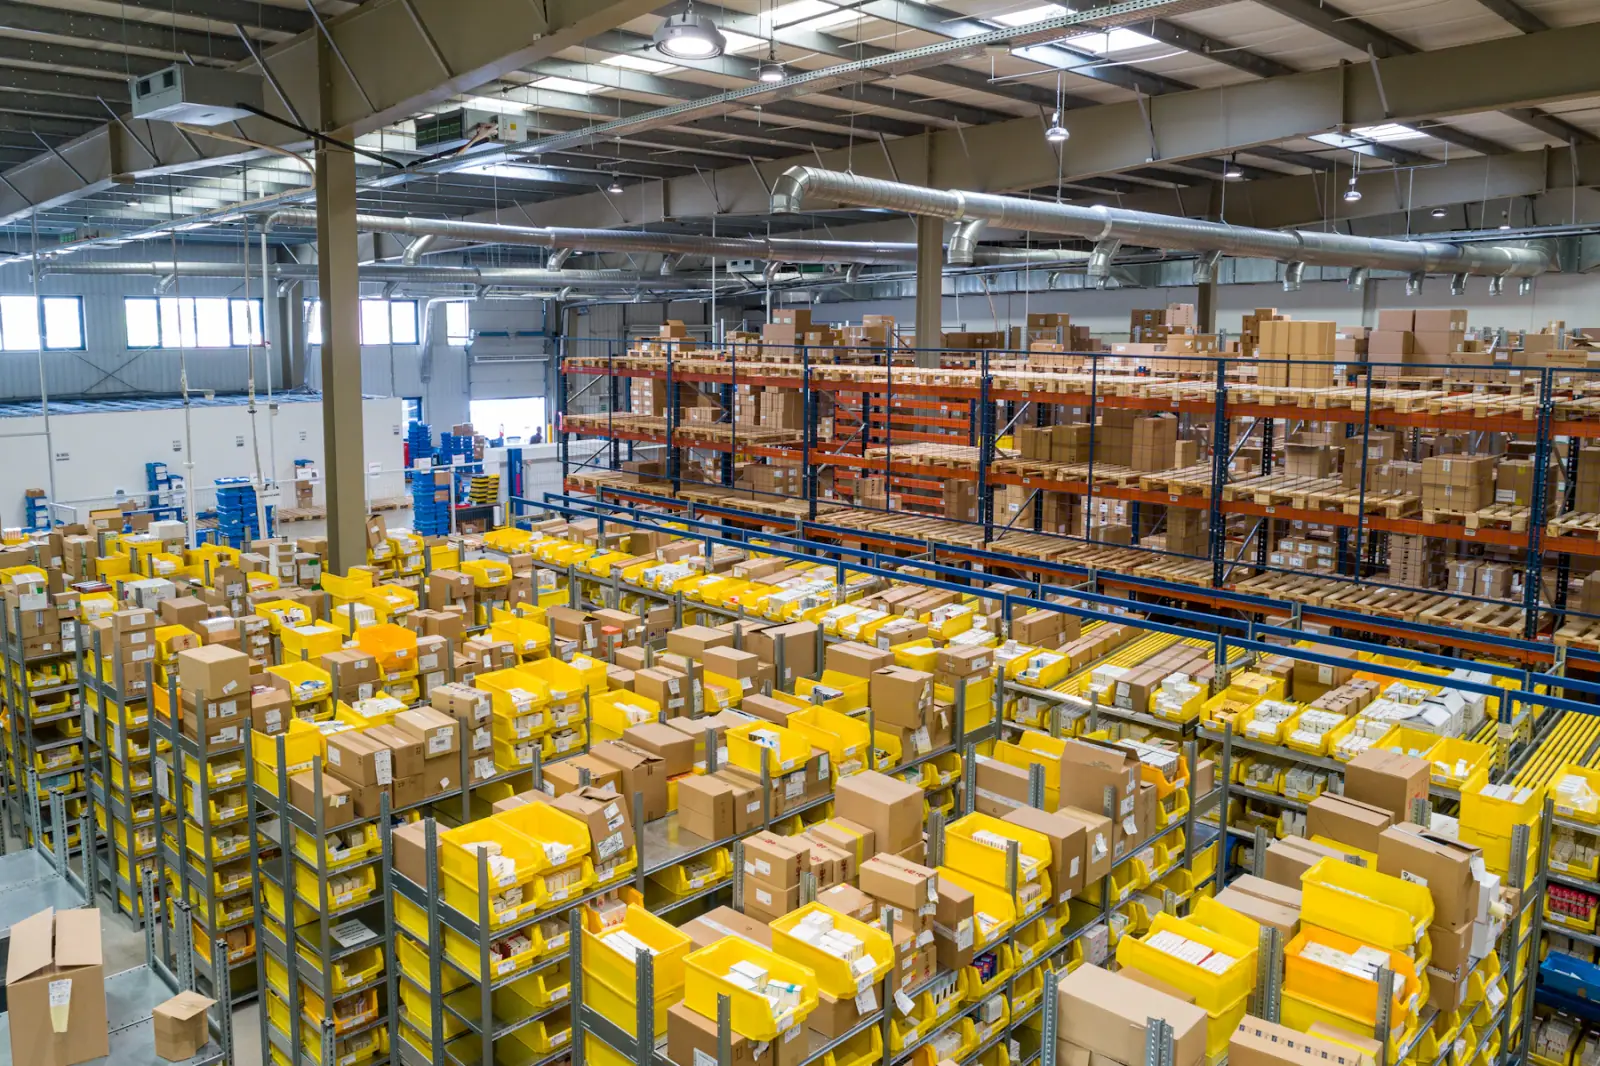
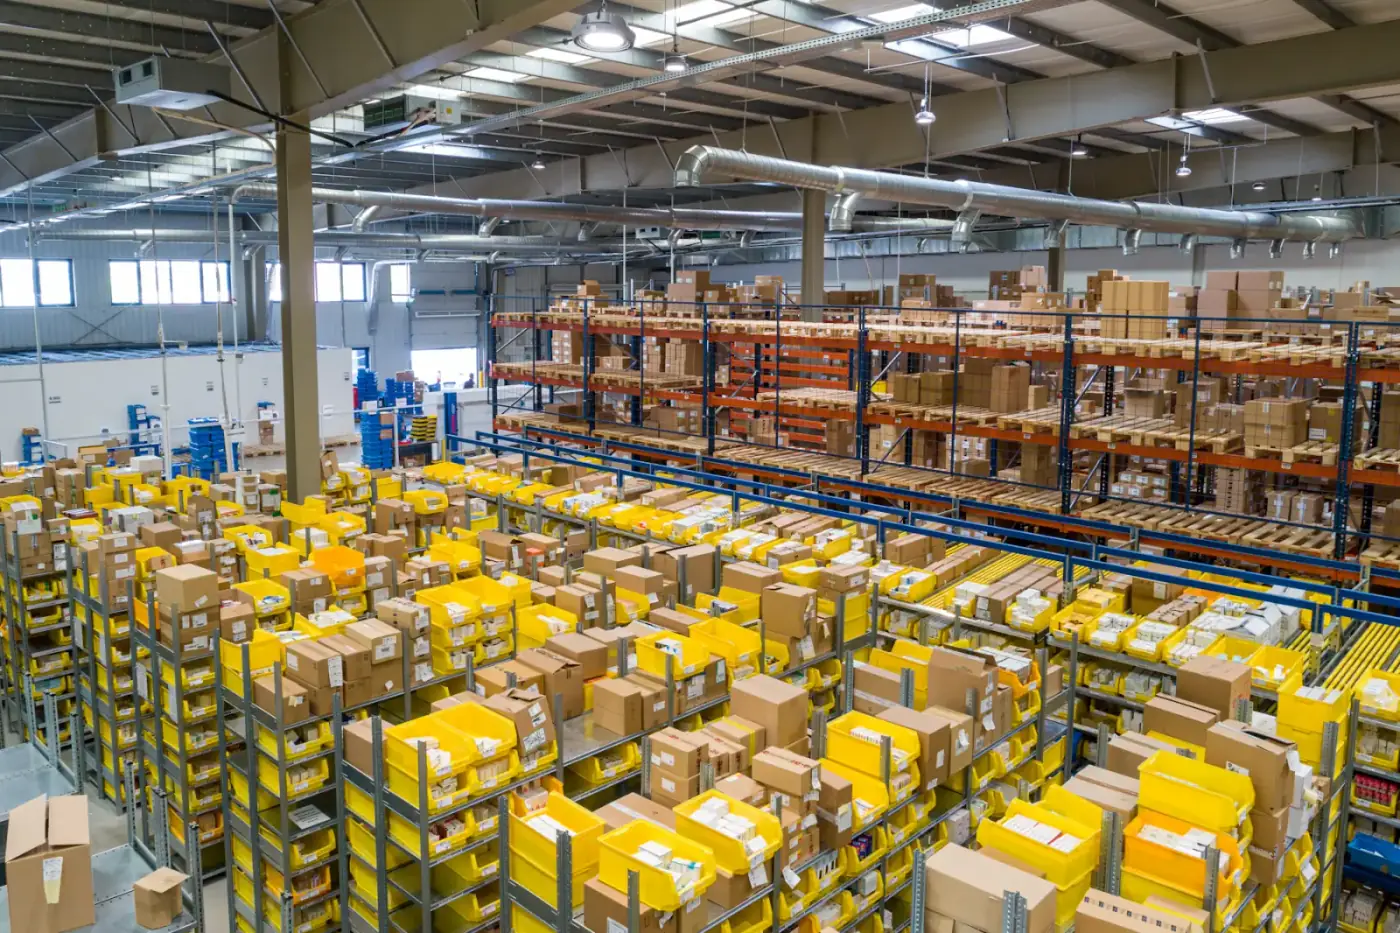
Phase 2C: Preview QA refinements and Vercel Next.js config.
Harden serverless form persistence, reduce hero image weight, and set the Vercel framework preset so preview deploys the App Router instead of a static public folder.

diff --git a/components/SupplierForm.tsx b/components/SupplierForm.tsx
@@ -97,7 +97,7 @@ export function SupplierForm() {
             value={values.companyName}
             onChange={(e) => setValues({ ...values, companyName: e.target.value })}
           />
-          {errors.companyName ? <p className="text-sm text-red-700">{errors.companyName}</p> : null}
+          {errors.companyName ? <p className="text-sm text-red-700" role="alert">{errors.companyName}</p> : null}
         </div>
         <div className="grid gap-2">
           <label htmlFor="supplier-contact" className="text-sm font-medium text-navy">
@@ -110,7 +110,7 @@ export function SupplierForm() {
             value={values.contactName}
             onChange={(e) => setValues({ ...values, contactName: e.target.value })}
           />
-          {errors.contactName ? <p className="text-sm text-red-700">{errors.contactName}</p> : null}
+          {errors.contactName ? <p className="text-sm text-red-700" role="alert">{errors.contactName}</p> : null}
         </div>
       </div>
       <div className="grid gap-5 md:grid-cols-2">
@@ -126,7 +126,7 @@ export function SupplierForm() {
             value={values.email}
             onChange={(e) => setValues({ ...values, email: e.target.value })}
           />
-          {errors.email ? <p className="text-sm text-red-700">{errors.email}</p> : null}
+          {errors.email ? <p className="text-sm text-red-700" role="alert">{errors.email}</p> : null}
         </div>
         <div className="grid gap-2">
           <label htmlFor="supplier-phone" className="text-sm font-medium text-navy">
@@ -140,7 +140,7 @@ export function SupplierForm() {
             value={values.phone}
             onChange={(e) => setValues({ ...values, phone: e.target.value })}
           />
-          {errors.phone ? <p className="text-sm text-red-700">{errors.phone}</p> : null}
+          {errors.phone ? <p className="text-sm text-red-700" role="alert">{errors.phone}</p> : null}
         </div>
       </div>
       <div className="grid gap-5 md:grid-cols-2">
@@ -156,7 +156,7 @@ export function SupplierForm() {
             value={values.websiteUrl}
             onChange={(e) => setValues({ ...values, websiteUrl: e.target.value })}
           />
-          {errors.websiteUrl ? <p className="text-sm text-red-700">{errors.websiteUrl}</p> : null}
+          {errors.websiteUrl ? <p className="text-sm text-red-700" role="alert">{errors.websiteUrl}</p> : null}
         </div>
         <div className="grid gap-2">
           <label htmlFor="supplier-type" className="text-sm font-medium text-navy">
@@ -175,7 +175,7 @@ export function SupplierForm() {
               </option>
             ))}
           </select>
-          {errors.companyType ? <p className="text-sm text-red-700">{errors.companyType}</p> : null}
+          {errors.companyType ? <p className="text-sm text-red-700" role="alert">{errors.companyType}</p> : null}
         </div>
       </div>
       <div className="grid gap-2">
@@ -232,7 +232,7 @@ export function SupplierForm() {
           value={values.message}
           onChange={(e) => setValues({ ...values, message: e.target.value })}
         />
-        {errors.message ? <p className="text-sm text-red-700">{errors.message}</p> : null}
+        {errors.message ? <p className="text-sm text-red-700" role="alert">{errors.message}</p> : null}
       </div>
       <div className="flex items-start gap-3">
         <input
@@ -246,7 +246,7 @@ export function SupplierForm() {
           I confirm that I am authorized to discuss the products or brands referenced in this inquiry.
         </label>
       </div>
-      <p className="hidden" aria-hidden="true">
+      <p className="sr-only" aria-hidden="true">
         <label htmlFor="supplier-fax">Fax</label>
         <input
           id="supplier-fax"

diff --git a/app/suppliers/page.tsx b/app/suppliers/page.tsx
@@ -139,10 +139,30 @@ export default function SuppliersPage() {
           <div className="md:col-span-4">
             <h2 className="text-3xl font-semibold text-navy">Supplier inquiry</h2>
             <p className="mt-4 text-muted">
-              Share company, category, and product details. Receipt of this form
+              Share company, category, and product details. Submitting this form
               confirms that the inquiry was received for review. It does not
-              constitute acceptance as a supplier.
+              constitute acceptance as a supplier or a purchase commitment.
             </p>
+            <ol className="mt-6 grid gap-3 text-sm text-navy">
+              <li className="flex gap-3">
+                <span className="flex h-6 w-6 shrink-0 items-center justify-center bg-navy text-xs font-semibold text-white">
+                  1
+                </span>
+                <span>Submit company and product details using the form.</span>
+              </li>
+              <li className="flex gap-3">
+                <span className="flex h-6 w-6 shrink-0 items-center justify-center bg-navy text-xs font-semibold text-white">
+                  2
+                </span>
+                <span>Greatly Brands reviews category fit, terms, and channel suitability.</span>
+              </li>
+              <li className="flex gap-3">
+                <span className="flex h-6 w-6 shrink-0 items-center justify-center bg-navy text-xs font-semibold text-white">
+                  3
+                </span>
+                <span>If the opportunity appears to be a fit, follow-up uses the contact details provided.</span>
+              </li>
+            </ol>
           </div>
           <div className="rounded-sm border border-line bg-white p-6 shadow-[0_8px_24px_rgba(12,30,56,0.04)] md:col-span-8 md:p-8">
             <SupplierForm />

diff --git a/lib/inquiries.ts b/lib/inquiries.ts
@@ -22,18 +22,24 @@ export async function storeInquiry(
     payload,
   };
 
-  await mkdir(DATA_DIR, { recursive: true });
-
-  let existing: StoredInquiry[] = [];
   try {
-    const raw = await readFile(DATA_FILE, "utf8");
-    existing = JSON.parse(raw) as StoredInquiry[];
-  } catch {
-    existing = [];
-  }
+    await mkdir(DATA_DIR, { recursive: true });
 
-  existing.push(inquiry);
-  await writeFile(DATA_FILE, JSON.stringify(existing, null, 2), "utf8");
+    let existing: StoredInquiry[] = [];
+    try {
+      const raw = await readFile(DATA_FILE, "utf8");
+      existing = JSON.parse(raw) as StoredInquiry[];
+    } catch {
+      existing = [];
+    }
+
+    existing.push(inquiry);
+    await writeFile(DATA_FILE, JSON.stringify(existing, null, 2), "utf8");
+  } catch {
+    // Serverless preview hosts are typically read-only outside /tmp.
+    // Validated inquiries still succeed; persistence is best-effort and local-only.
+    console.error("Inquiry file persistence unavailable");
+  }
 
   const webhook = process.env.GHL_WEBHOOK_URL;
   if (webhook) {

diff --git a/app/government/page.tsx b/app/government/page.tsx
@@ -37,7 +37,7 @@ export default function GovernmentPage() {
       />
 
       <section className="bg-white py-16 md:py-20">
-        <div className="container-site grid items-center gap-12 md:grid-cols-12">
+        <div className="container-site grid items-start gap-12 md:grid-cols-12">
           <div className="md:col-span-6">
             <h2 className="text-3xl font-semibold text-navy">Commercially available consumer products</h2>
             <p className="mt-5 text-muted">
@@ -69,7 +69,7 @@ export default function GovernmentPage() {
       </section>
 
       <section className="bg-paper py-16 md:py-20">
-        <div className="container-site grid gap-5 md:grid-cols-2 xl:grid-cols-3">
+        <div className="container-site grid gap-5 md:grid-cols-2">
           <CapabilityCard
             title="Federal Procurement Opportunities"
             description="Greatly Brands reviews eligible federal purchasing opportunities involving commercially available consumer products when those opportunities are a fit."

diff --git a/proxy.ts b/proxy.ts
@@ -7,10 +7,19 @@ export function proxy(request: NextRequest) {
   if (pathname.length > 1 && pathname.endsWith("/")) {
     const url = request.nextUrl.clone();
     url.pathname = pathname.replace(/\/+$/, "");
-    return NextResponse.redirect(url, 308);
+    const redirect = NextResponse.redirect(url, 308);
+    return withPreviewRobotHeaders(redirect);
   }
 
-  return NextResponse.next();
+  return withPreviewRobotHeaders(NextResponse.next());
+}
+
+function withPreviewRobotHeaders(response: NextResponse) {
+  const env = process.env.VERCEL_ENV;
+  if (env && env !== "production") {
+    response.headers.set("X-Robots-Tag", "noindex, nofollow");
+  }
+  return response;
 }
 
 export const config = {

diff --git a/components/ContactForm.tsx b/components/ContactForm.tsx
@@ -153,7 +153,7 @@ export function ContactForm({
           onChange={(e) => setValues({ ...values, message: e.target.value })}
         />
       </Field>
-      <p className="hidden" aria-hidden="true">
+      <p className="sr-only" aria-hidden="true">
         <label htmlFor="contact-website">Website</label>
         <input
           id="contact-website"
@@ -204,7 +204,7 @@ function Field({
         </div>
       )}
       {error ? (
-        <p className="text-sm text-red-700" role="alert">
+        <p id={`${id}-error`} className="text-sm text-red-700" role="alert">
           {error}
         </p>
       ) : null}

diff --git a/components/Hero.tsx b/components/Hero.tsx
@@ -39,7 +39,8 @@ export function Hero() {
               alt="Organized consumer-product cartons and distribution shelving. Generic illustrative photography; not a Greatly Brands facility."
               fill
               priority
-              sizes="(max-width: 768px) 100vw, 40vw"
+              quality={75}
+              sizes="(max-width: 768px) 100vw, (max-width: 1200px) 42vw, 560px"
               className="object-cover"
             />
           </div>

diff --git a/components/TrustBar.tsx b/components/TrustBar.tsx
@@ -12,7 +12,7 @@ const items = [
     copy: "Purchasing across household, personal care, and general merchandise.",
   },
   {
-    title: "Commercial & Government Opportunities",
+    title: "Commercial & Government",
     copy: "Prepared to evaluate eligible commercial and public-sector purchasing needs.",
   },
 ];
